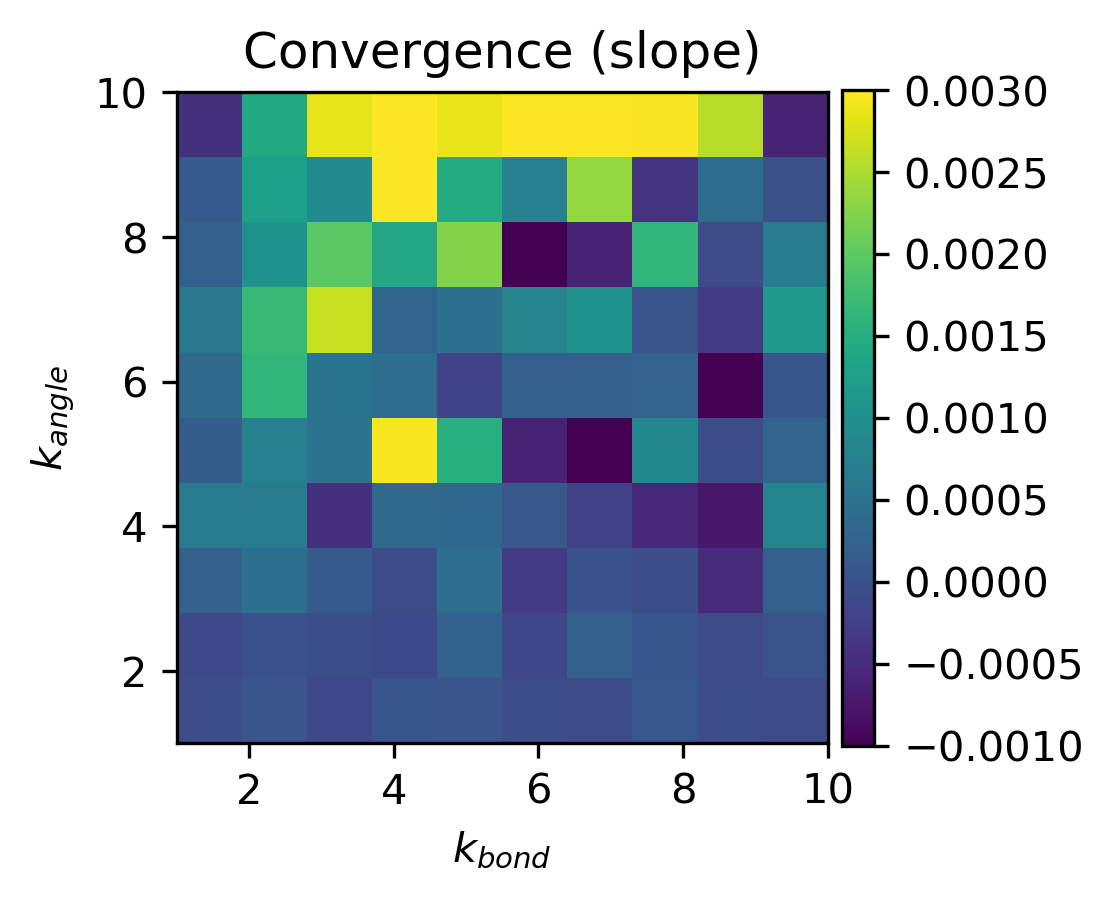
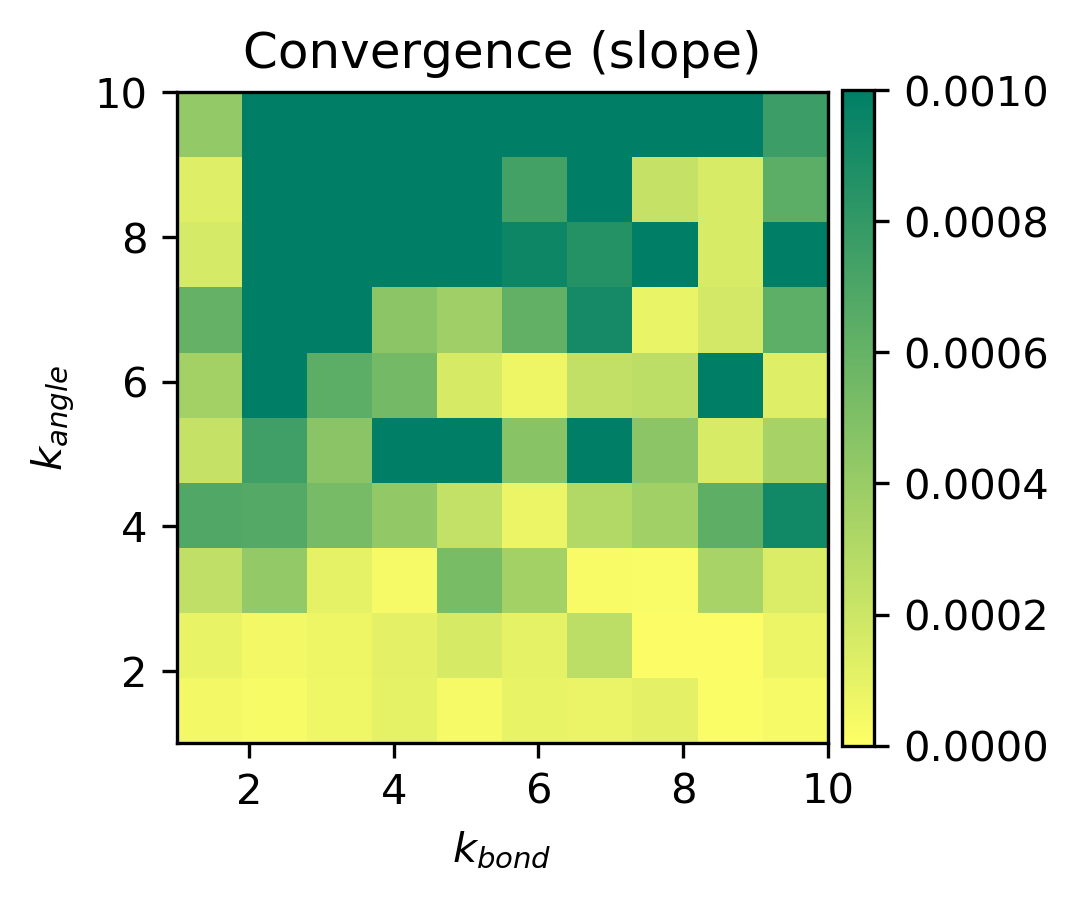
Update wlab gm july 8 presentation

diff --git a/_pages/presentations/wlab-08-07-2019.html b/_pages/presentations/wlab-08-07-2019.html
@@ -57,20 +57,32 @@ class: center, middle
 
 <h3>Force field</h3>
 **180° angle potential (harmonic)**
-    - 2 angles / unit cell edge
+    - 6 angles / corner atom
 
 **90° angle potentials (harmonic)**
     - 12 angles / corner atom
-    - angles in *xy* plane can be changed to approximate breathing
+    - angles in xy plane can be changed to model breathing
 
 **Short bonds (harmonic)**
-    - 3 bonds / unit cell edge
+    - 1 bond for every consecutive atom pair
 
 ---
-## Parametrizing the Model
+## Parametrizing the model
 
 - Thermal conductivity ~ 1 W/mK
 - Relaxed volume ~ ideal volume
+
+--
+
+<div style="width: 50%; text-align: center; float:left; position: relative; top: 0px; right: 30px;">
+  90 degrees
+  <img src="/assets/img/presentations/wlab-08-07-19/90-degree-anim.gif" width=450>
+</div>
+
+<div style="width: 50%; text-align: center; float:left; position: relative; top: 0px; right: 0px;">
+  60 degrees
+  <img src="/assets/img/presentations/wlab-08-07-19/60-degree-anim.gif" width=490>
+</div>
 
 ---
 <h3>Correlation length and convergence</h3>
@@ -102,36 +114,106 @@ class: center, middle
   <img src="/assets/img/presentations/wlab-08-07-19/k_10_10_p250ps_k_avg.png" width=1000>
 </div>
 ---
-## Parameter Search
+## Parameter search screening
 
-- **k<sub>bond</sub> and k<sub>angle</sub> :** 1 - 10 kcal/mol with 1 kcal/mol step size
-- **Correlation length :** 500 ps
-- **Total simulation length :** 6 ns (6e6 timesteps)
-- **CPU time :** 24 CPU hour / run
+- **k<sub>bond</sub> and k<sub>angle</sub>**
+  - 1 - 10 kcal/mol with 1 kcal/mol step size
+
+- **Correlation length**
+  - 500 ps
+
+- **Total simulation length**
+  - 6 ns (6e6 timesteps)
+  - 5 ns for NVE heat flux measurement
+
+- **CPU time**
+  - 24 CPU hour / run
+  - Total: 12k CPU hour
+  - Currently ~ 1M CPU hour available
 
 ---
-### Parameter Search
-
-Plot k bond and k angle 2d hostograms
+### Parameter Search | Thermal conductivity and Volume
 
 <div style="width: 50%; text-align: center; float:left; position: relative; top: 0px; right: 30px;">
   <img src="/assets/img/presentations/wlab-08-07-19/par_search_k.png" width=550>
 </div>
 
+--
+
 <div style="width: 50%; text-align: center; float:left; position: relative; top: 0px; right: 0px;">
   <img src="/assets/img/presentations/wlab-08-07-19/par_search_v.png" width=550>
 </div>
+
 ---
-### Parameter Search
+### Parameter Search | Thermal conductivity contribution
 
 <div style="width: 50%; text-align: center; float:left; position: relative; top: 0px; right: 30px;">
-  <img src="/assets/img/presentations/wlab-08-07-19/3-7.png" width=350>
-  <img src="/assets/img/presentations/wlab-08-07-19/8-6.png" width=350>
+  <img src="/assets/img/presentations/wlab-08-07-19/par_search_k_bond.png" width=550>
 </div>
+
+<div style="width: 50%; text-align: center; float:left; position: relative; top: 0px; right: 0px;">
+  <img src="/assets/img/presentations/wlab-08-07-19/par_search_k_angle.png" width=550>
+</div>
+
+---
+### Parameter Search | Thermal conductivity convergence
+
+<div style="width: 50%; text-align: center; float:left; position: relative; top: 0px; right: 30px;">
+  <img src="/assets/img/presentations/wlab-08-07-19/k_plt/3-5.png" width=350>
+  <img src="/assets/img/presentations/wlab-08-07-19/k_plt/4-9.png" width=350>
+</div>
+
+--
 
 <div style="width: 50%; text-align: center; float:left; position: relative; top: 0px; right: 30px;">
   <img src="/assets/img/presentations/wlab-08-07-19/par_search_m.png" width=550>
 </div>
+
+---
+### Parameter Search | Thermal conductivity convergence (bond and angle)
+
+<div style="width: 50%; text-align: center; float:left; position: relative; top: 0px; right: 30px;">
+  <img src="/assets/img/presentations/wlab-08-07-19/par_search_m_bond.png" width=550>
+</div>
+
+<div style="width: 50%; text-align: center; float:left; position: relative; top: 0px; right: 0px;">
+  <img src="/assets/img/presentations/wlab-08-07-19/par_search_m_angle.png" width=550>
+</div>
+
+---
+### Parameter Search | Thermal conductivity
+
+Increasing bond parameter
+<div style="width: 120%; text-align: center; float:left; position: relative; top: -20px; right: 110px;">
+  <img src="/assets/img/presentations/wlab-08-07-19/k_plt/2-1.png" width=350>
+  <img src="/assets/img/presentations/wlab-08-07-19/k_plt/2-5.png" width=350>
+  <img src="/assets/img/presentations/wlab-08-07-19/k_plt/2-9.png" width=350>
+</div>
+
+--
+
+Increasing angle parameter
+<div style="width: 120%; text-align: center; float:left; position: relative; top: -20px; right: 110px;">
+  <img src="/assets/img/presentations/wlab-08-07-19/k_plt/1-3.png" width=350>
+  <img src="/assets/img/presentations/wlab-08-07-19/k_plt/5-3.png" width=350>
+  <img src="/assets/img/presentations/wlab-08-07-19/k_plt/9-3.png" width=350>
+</div>
+
+---
+### Parameter Search | Top candidates
+
+<div style="width: 120%; text-align: center; float:left; position: relative; top: 0px; right: 110px;">
+  <img src="/assets/img/presentations/wlab-08-07-19/k_plt/2-4.png" width=350>
+  <img src="/assets/img/presentations/wlab-08-07-19/k_plt/4-4.png" width=350>
+  <img src="/assets/img/presentations/wlab-08-07-19/k_plt/6-5.png" width=350>
+</div>
+
+<div style="width: 120%; text-align: center; float:left; position: relative; top: 0px; right: 110px;">
+  <img src="/assets/img/presentations/wlab-08-07-19/k_plt/9-5.png" width=350>
+  <img src="/assets/img/presentations/wlab-08-07-19/k_plt/3-5.png" width=350>
+  <img src="/assets/img/presentations/wlab-08-07-19/k_plt/7-5.png" width=350>
+</div>
+
 
 ---
 class: center, middle

diff --git a/_pages/presentations/index.md b/_pages/presentations/index.md
@@ -12,7 +12,7 @@ related: false
 - [WilmerLab Group Meeting - Nanocar - September 10, 2018](presentations/wlab-10-09-2018/)
 - [WilmerLab Group Meeting - Nanocar - May 14, 2018](presentations/wlab-14-05-2018/)
 - [WilmerLab Group Meeting - Transition State Theory - June 17, 2019](presentations/wlab-17-06-2019/)
-- [WilmerLab Group Meeting - Breathing MOF - July 8, 2019](presentations/wlab-08-06-2019/)
+- [WilmerLab Group Meeting - Breathing MOF - July 8, 2019](presentations/wlab-08-07-2019/)
 
 ## Other Presentations
 - [MolSSI Bootcamp - July 24, 2018](presentations/MolSSI-bootcamp-2018/)
